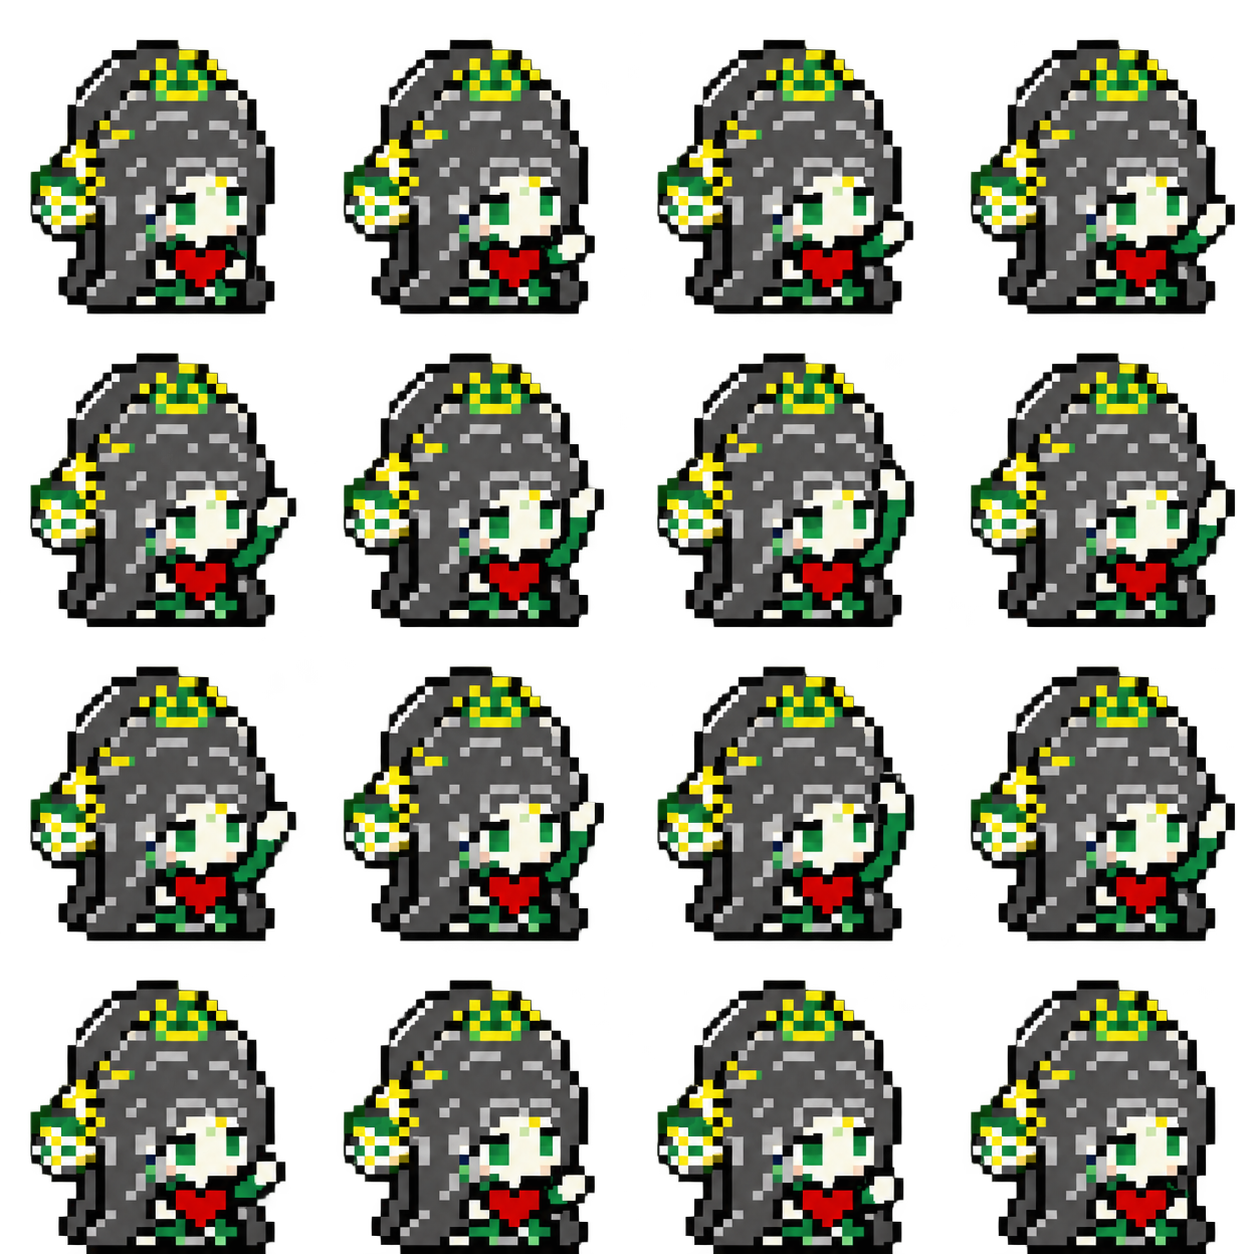
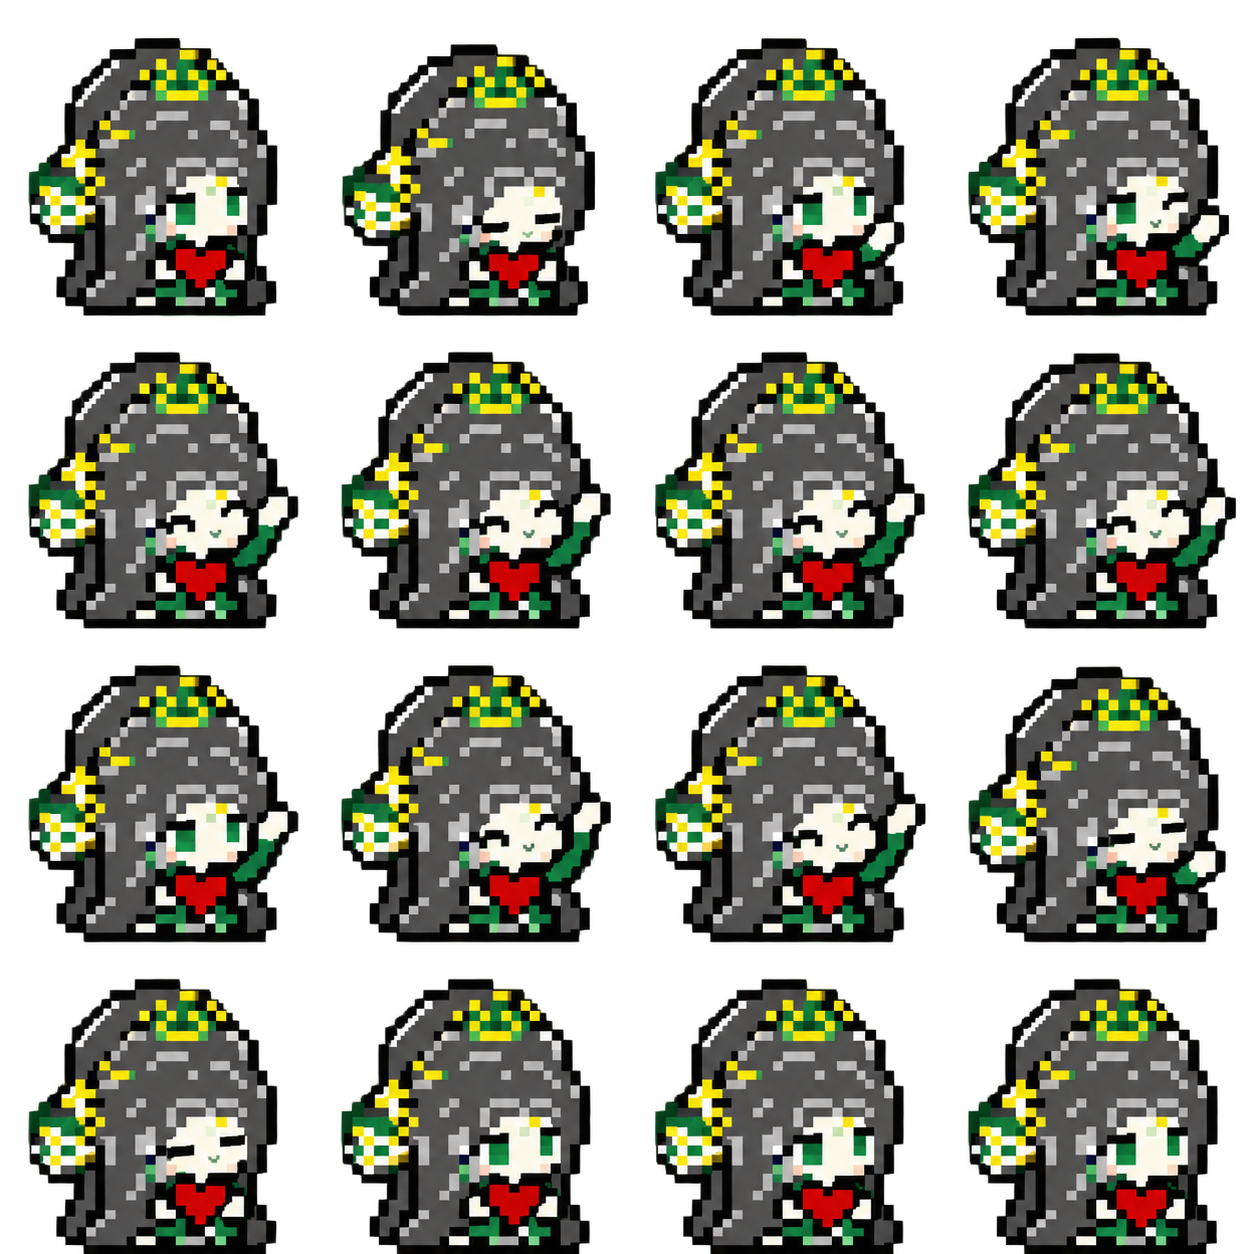
feat: add playful expressions and acting to SuWuDu wave

diff --git a/Assets/Source/AnimationAtlases/wave-cute-prompts.md b/Assets/Source/AnimationAtlases/wave-cute-prompts.md
@@ -1,0 +1,44 @@
+# Expressive wave animation
+
+Mode: built-in `image_gen`, transparent RGBA. The edit target was the prior `wave-v3-source.png`, now preserved at `Assets/Archive/AnimationAtlases/suwudu-wave-before-cute/wave-v3-source.png`. Its palette, slender body and hair-covered lower silhouette remain the identity reference.
+
+The current `wave-v3-source.png` adds anticipation, wink, smiling eyes, two small wrist waves, head tilts and a content settling expression. `wave-v3.png` contains the normalized 16-frame runtime sequence; `wave-v3-preview.gif` plays it at the application's 100 ms/frame. Old runtime frames are retained under `Assets/Archive/Sprites/suwudu-wave-before-cute`.
+
+## Prompt
+
+```text
+Use case: identity-preserve.
+Asset type: production 16-frame cute waving animation for the SuWuDu desktop pet.
+Input image 1 is the CURRENT CHARACTER / PALETTE REFERENCE, and the sprite sheet to improve. Preserve the same recognizable slender chibi character, very long neutral dark-gray hair, square gray highlights, small lemon-yellow/emerald crown, side ornament on viewer-left, green clothing, creamy face, green eyes and bright red heart at chest. The user likes this exact character's proportions and colors.
+
+Primary request: redesign the acting so the greeting feels charming, playful, affectionate and alive instead of a stiff mechanical single-hand lift. Give the character a little personality: an anticipatory shy head dip, a small head tilt toward the raised hand, happy squint-smile eyes, then TWO quick little cheek-height hand wiggles, and a soft return to the neutral pose. Animate expression and attitude, not only an arm. Clear but restrained acting, cute desktop-companion greeting.
+Exactly 16 sequential frames, 4 columns x4 rows, read left-to-right, top-to-bottom. Square transparent sprite sheet. Every full character centered on the SAME BODY ANCHOR and same scale. Maintain generous 10% padding from each cell edge. Lower hair hem remains planted at the same baseline; long hair COMPLETELY hides legs/feet throughout. Do not expose legs, separate shoes, gaps under hair, or a wider/chubbier body. Do not zoom, squash, stretch or change identity.
+
+Ordered action:
+1 neutral open green eyes, red heart held at chest, hands relaxed.
+2 small anticipatory head dip, elbow tucks in, expression softens.
+3 hand rises close to cheek; head begins tilting a little toward it; eyelids soften.
+4 palm opens beside cheek, head gently tilted about 4 degrees, one eye softly closes into a playful wink and a tiny smile.
+5 happy crescent-shaped smiling eyes, tiny smile, little hand tilted outward beside cheek.
+6 hand wiggles inward toward face, smiling eyes stay.
+7 hand wiggles outward, slight cheeky head tilt, hair ornament lags a tiny amount.
+8 hand wiggles back inward, smile stays.
+9 second wave outward, open one eye playfully.
+10 second wave inward, happy crescent eyes and small smile.
+11 second wave outward with a relaxed cheerful expression.
+12 wrist relaxes beside cheek, blink begins, head gently starts straightening.
+13 hand lowers toward chest, eyes softly closed in a content smile.
+14 eyes reopen green, head nearly upright, hand almost rests at heart.
+15 neutral pose almost restored, tiny settling of hair ornament.
+16 neutral pose exactly like frame 1 for a seamless loop.
+
+Arm anatomy: ONLY the arm on viewer-RIGHT waves, compact cream mitten hand and short green sleeve, elbow bent close to body. Opposite hand keeps the red heart. No long extended horizontal arm, rigid salute, punching gesture, detached hands, extra fingers or extra limbs.
+Expression is essential: frames 4-13 MUST visibly change eyes/eyelids and tiny mouth; do not keep the same neutral stare across the sheet. Tiny pale peach cheek warmth is allowed but no large blush circles. Head tilt is visible in facial/hair pixels but torso and lower hem stay stable.
+Style: match the source's coarse square pixel blocks, hard-edged simple shapes, limited neutral-gray/emerald/lemon/red palette and black contour. No painterly gradients, smooth vector curves, realistic shading, new lighting or color tint. No separate decorative hearts, sparkles, text, labels, grid lines, watermark or shadow. Genuine transparent alpha background; do not paint a checkerboard.
+```
+
+## Registration and playback
+
+Run `node Scripts/BuildSuWuDuActionAtlases.mjs wave-v3` with `sharp` available (or set `SHARP_MODULE`). The wave uses the median midpoint of the opaque lower 20% of the hair hem as its horizontal anchor and the hem bottom as its vertical anchor. A single sheet-wide nearest-neighbor scale preserves generated proportions and RGBA; fixed hem registration preserves the intended head dip/tilt. The reminder continues using its original crown registration and is not regenerated by this command.
+
+All first 15 source poses are played in order, with the opening pose reused as frame 16 for a seamless boundary. This preserves the full acting sequence rather than repeating only the first eight poses. The output remains 4 × 4 cells of 362 × 362 pixels, 1448 × 1448 overall. The GIF is a preview; the application continues loading the PNG frames.

diff --git a/Assets/Source/AnimationAtlases/suwudu-actions-v3-prompts.md b/Assets/Source/AnimationAtlases/suwudu-actions-v3-prompts.md
@@ -2,7 +2,7 @@
 
 Mode: built-in `image_gen`, transparent RGBA output. The user selected the two 4 × 4 sheets from the second generation round. The later 4 × 2 reminder experiment was rejected because it exposed distinct legs/feet; it is not used or stored in the project. Preserve the long-hair silhouette hiding the lower body in future revisions.
 
-The wave still uses the selected `wave-v3-source.png`. The original reminder described below is preserved in `Assets/Archive/AnimationAtlases/suwudu-reminder-before-wave-match`; its active replacement follows the wave's narrower silhouette and palette, with its prompt in `reminder-wave-match-prompts.md`. Active originals remain unmodified imagegen output. Their normalized runtime atlases are `wave-v3.png` and `reminder-v3.png` (1448 × 1448, 4 × 4 cells of 362 × 362).
+The original wave described below is preserved in `Assets/Archive/AnimationAtlases/suwudu-wave-before-cute`; the active wave adds expressive acting, with its prompt in `wave-cute-prompts.md`. The original reminder described below is preserved in `Assets/Archive/AnimationAtlases/suwudu-reminder-before-wave-match`; its active replacement follows the prior wave's narrower silhouette and palette, with its prompt in `reminder-wave-match-prompts.md`. Active originals remain unmodified imagegen output. Their normalized runtime atlases are `wave-v3.png` and `reminder-v3.png` (1448 × 1448, 4 × 4 cells of 362 × 362).
 
 ## Generation prompts
 
@@ -64,8 +64,8 @@ Transparent alpha background. No text, labels, grid lines, shadow, blur, gradien
 
 ## Registration and playback
 
-Run `node Scripts/BuildSuWuDuActionAtlases.mjs` from the repository with `sharp` installed, or set `SHARP_MODULE` to an existing sharp package path. This rebuilds only these two actions. It retains source RGBA, uses nearest-neighbor sampling, applies one scale to each sheet, and aligns the crown rather than centering on a moving hand or bell. It makes no masks, no new leg cutouts, and no painted changes.
+Run `node Scripts/BuildSuWuDuActionAtlases.mjs` from the repository with `sharp` installed, or set `SHARP_MODULE` to an existing sharp package path. Append `wave-v3` or `reminder-v3` to rebuild only that action. It retains source RGBA, uses nearest-neighbor sampling and applies one scale to each sheet. Wave registration anchors the lower hair hem to preserve head motion; reminder registration anchors the crown. It makes no masks, no new leg cutouts, and no painted changes.
 
-`sourcePoseSequence` and crop/placement coordinates are recorded in `suwudu-actions-v3-registration.json`. Waving reuses its rise in reverse for a smooth return, and the reminder ends on its opening pose. Both final atlases have 16 frames; Windows and Mac use 100 ms for waving and 90 ms for reminders. The existing PowerShell `ExtractAnimationAtlases.ps1` also slices the normalized atlases with the fixed-grid extractor, without resizing or recentering them.
+`sourcePoseSequence` and crop/placement coordinates are recorded in `suwudu-actions-v3-registration.json`. Waving plays its full expression sequence, and both actions end on their opening pose. Both final atlases have 16 frames; Windows and Mac use 100 ms for waving and 90 ms for reminders. The existing PowerShell `ExtractAnimationAtlases.ps1` also slices the normalized atlases with the fixed-grid extractor, without resizing or recentering them.
 
 Open `suwudu-actions-v3-preview.html` for playback, frame stepping, speed controls, and light/dark/checker backgrounds. Prior v2 frames and source atlases are retained under `Assets/Archive/Sprites/suwudu-actions-v2` and `Assets/Archive/AnimationAtlases/suwudu-actions-v2`.

diff --git a/Assets/README.md b/Assets/README.md
@@ -84,6 +84,9 @@ all twelve states. The imagegen prompts are saved alongside it in
 The approved `wave-v3-source.png` and `reminder-v3-source.png` are both 4-by-4
 imagegen sheets. Preserve their long-hair silhouette covering the lower body;
 the later eight-pose reminder experiment with exposed legs was rejected.
+The current wave adds a head dip, wink, smiling eyes and two small wrist waves.
+Its acting prompt is in `Source/AnimationAtlases/wave-cute-prompts.md`; open
+`Source/AnimationAtlases/wave-v3-preview.gif` for a looping preview.
 The current reminder was redrawn directly from the approved wave sheet to match
 its narrow silhouette and neutral-gray/green palette. Its prompt is recorded in
 `Source/AnimationAtlases/reminder-wave-match-prompts.md`; the previous broader
@@ -91,9 +94,10 @@ reminder is preserved in the `suwudu-reminder-before-wave-match` archive folders
 
 Run `node Scripts/BuildSuWuDuActionAtlases.mjs` with Node and `sharp` available
 to rebuild only these two animations. `SHARP_MODULE` can point to an existing
-sharp installation. Append `reminder-v3` to rebuild only the reminder frames and
-its registration entry without rewriting the wave. The script preserves generated RGBA and applies one
-nearest-neighbor scale per sheet, registering the crown instead of moving props.
+sharp installation. Append `wave-v3` or `reminder-v3` to rebuild only that action
+and its registration entry. The script preserves generated RGBA and applies one
+nearest-neighbor scale per sheet. Wave registration fixes the lower hair hem to
+preserve the head acting; reminder registration fixes the crown.
 It emits 16 fixed 362-by-362 frames and a 1448-by-1448 atlas per action.
 Windows and Mac play waving at 100 ms per frame and reminders at 90 ms.
 The PowerShell extractor also slices the final atlases without rescaling.

diff --git a/Assets/Source/AnimationAtlases/reminder-wave-match-prompts.md b/Assets/Source/AnimationAtlases/reminder-wave-match-prompts.md
@@ -1,6 +1,6 @@
 # Reminder palette and silhouette match
 
-Mode: built-in `image_gen`, transparent RGBA. The sole image reference and edit target was the approved `wave-v3-source.png`. Only the reminder animation was regenerated; the wave artwork and playback remain unchanged.
+Mode: built-in `image_gen`, transparent RGBA. The sole image reference and edit target was the approved wave source, now preserved at `Assets/Archive/AnimationAtlases/suwudu-wave-before-cute/wave-v3-source.png`. This reminder revision regenerated only the reminder animation.
 
 The revised source is `reminder-v3-source.png`; the normalized 4 × 4 runtime atlas is `reminder-v3.png`. The old broader reminder source/atlas and 16 runtime frames are preserved under `Assets/Archive/AnimationAtlases/suwudu-reminder-before-wave-match` and `Assets/Archive/Sprites/suwudu-reminder-before-wave-match`.
 
